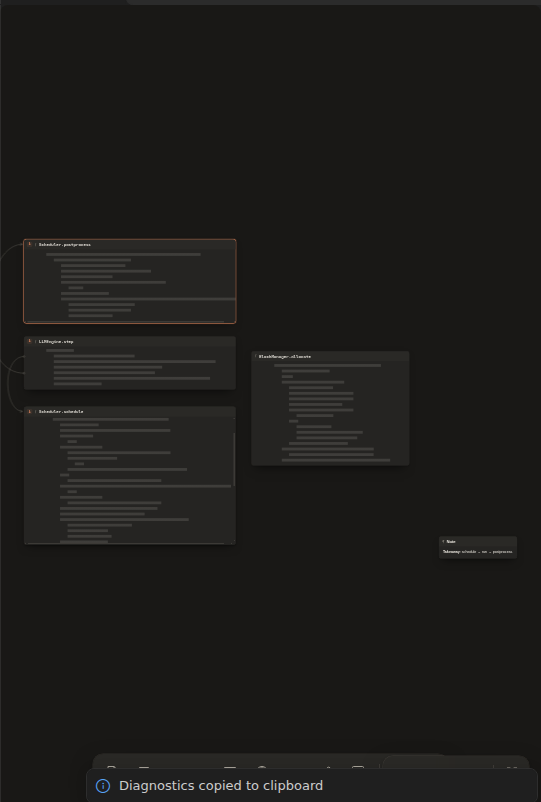
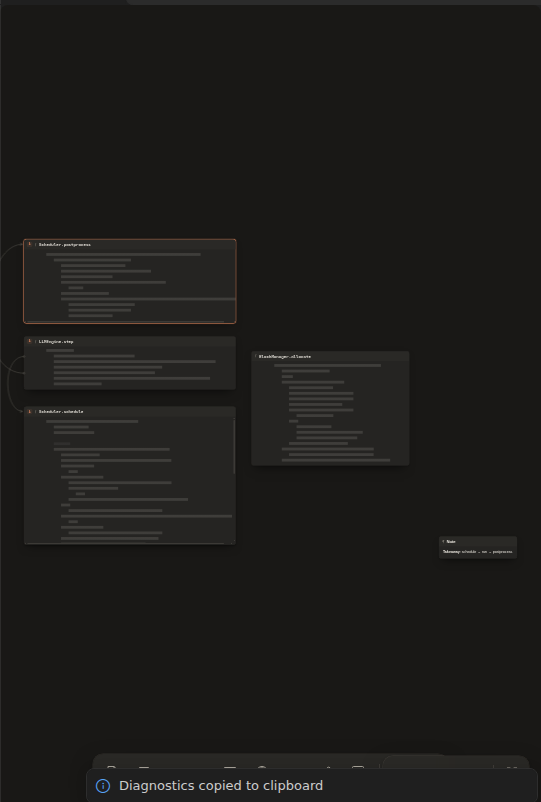
screenshots: pr/17 @ 430a450

Changed region(s): [[0.0887, 0.4988, 0.3549, 0.6858]]

diff --git a/pr/17/diff/summary.md b/pr/17/diff/summary.md
@@ -1,13 +1,5 @@
-**Screenshot diff**: 9 steps, 3 changed.
+**Screenshot diff**: 9 steps, 1 changed.
 
 **3-peek** · changed · 1.7% of pixels
 
 ![3-peek.png](https://github.com/yhnocoder/codeboard/blob/ci-screenshots/pr/17/diff/3-peek.png?raw=true)
-
-**4-sidenote** · changed · 3.3% of pixels
-
-![4-sidenote.png](https://github.com/yhnocoder/codeboard/blob/ci-screenshots/pr/17/diff/4-sidenote.png?raw=true)
-
-**5-search** · changed · 2.0% of pixels
-
-![5-search.png](https://github.com/yhnocoder/codeboard/blob/ci-screenshots/pr/17/diff/5-search.png?raw=true)
